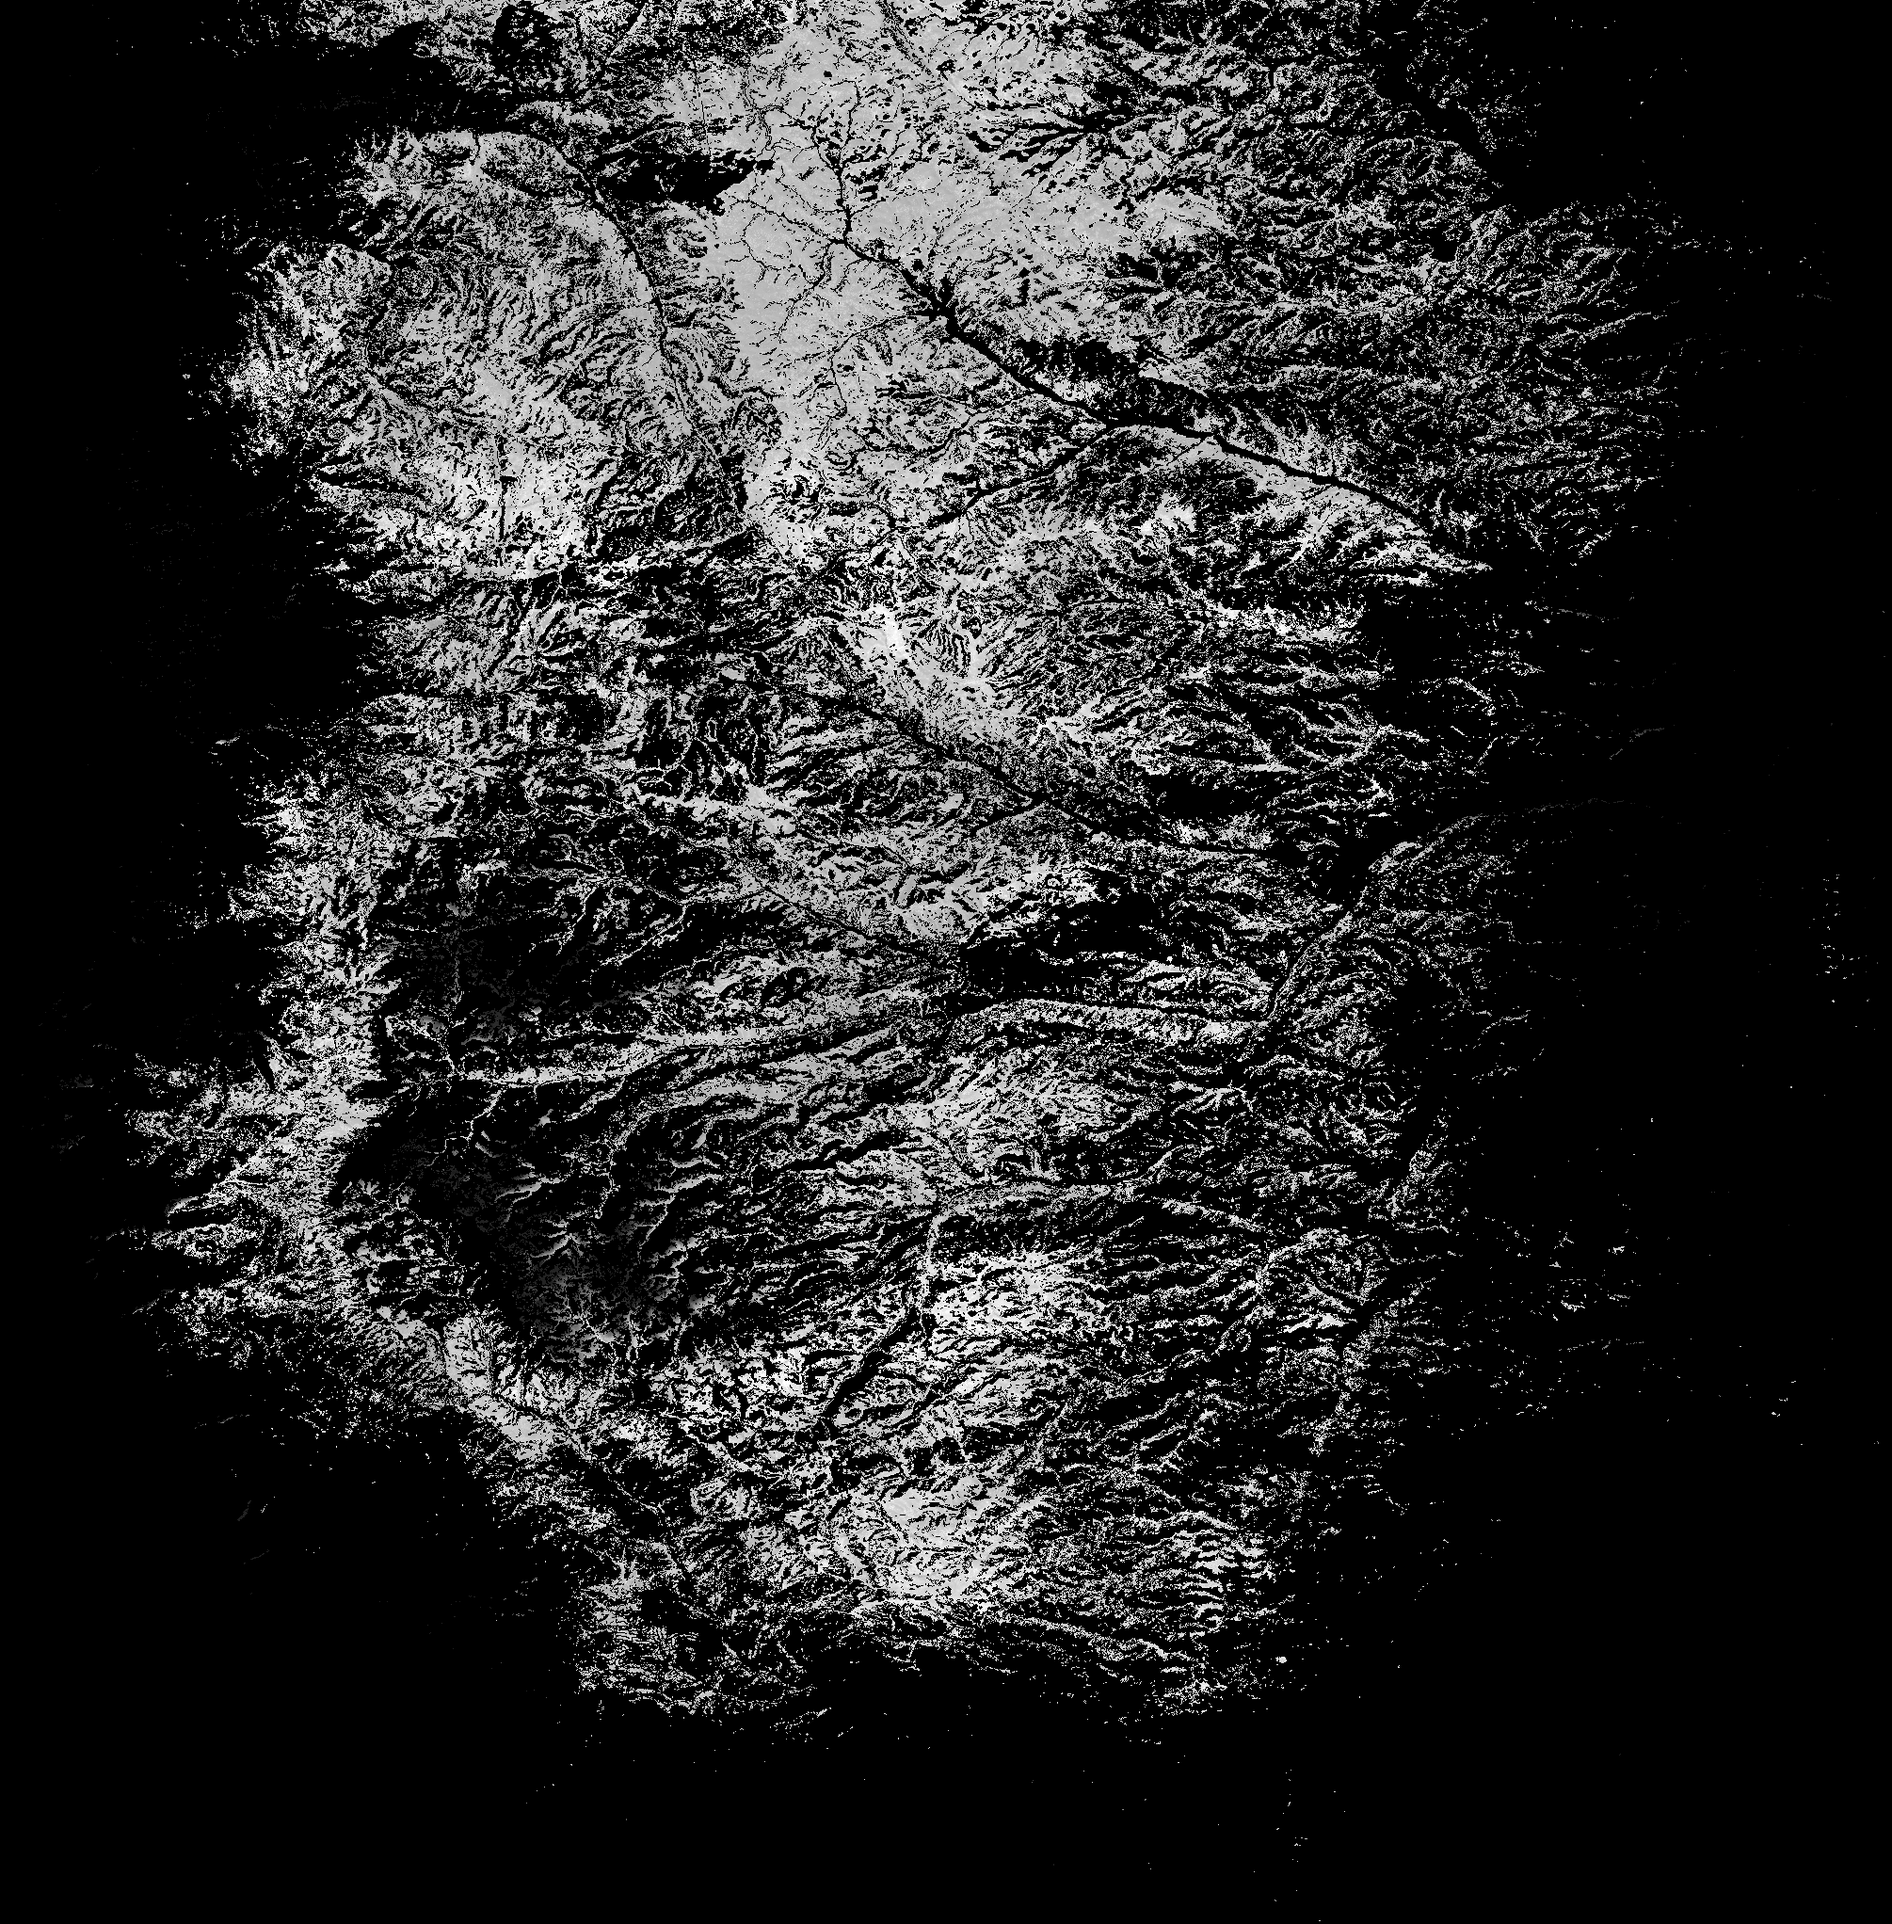
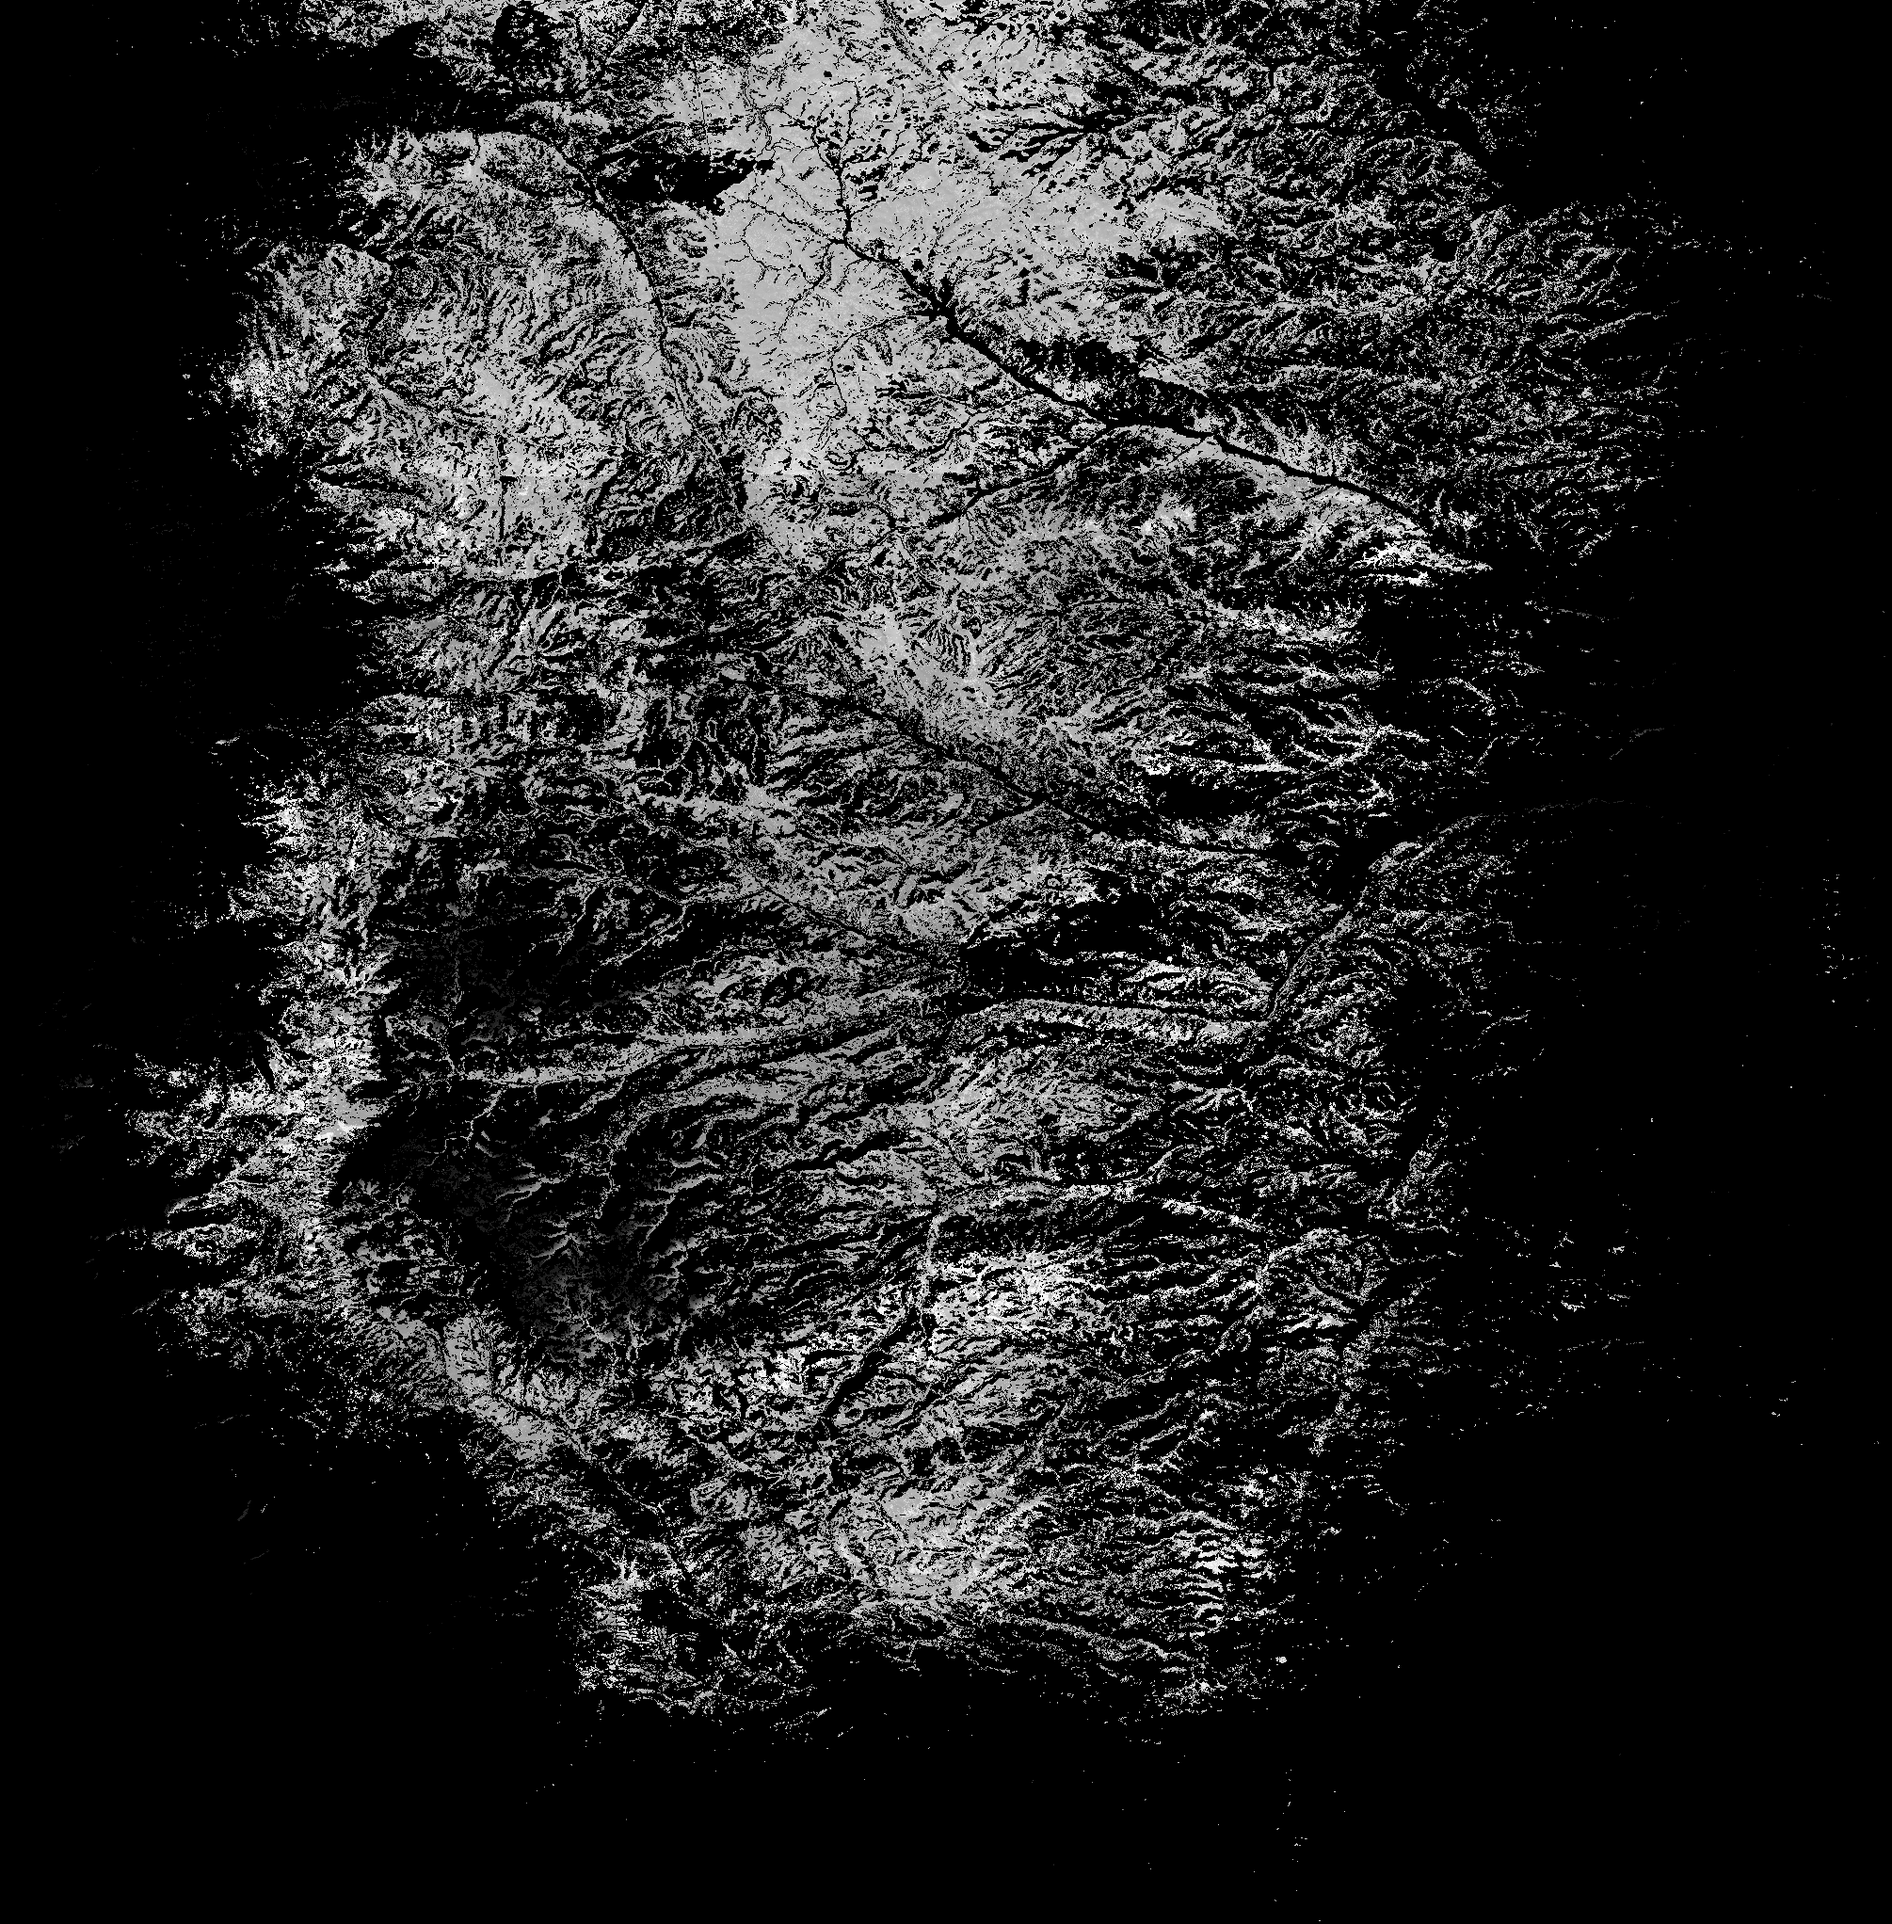
Full Sacramento RD lidar small-tree density (1063 3DEP tiles) in heat map, w=0.35; Meta only outside lidar; SW tf-v17

diff --git a/about.html b/about.html
@@ -22,4 +22,4 @@ Permit rules: Recreation.gov forest permit pages, fs.usda.gov forest pages, Vill
 <h3>Your field notes (local tuning)</h3><p>Waypoints marked “Trees found: Yes/Some/No” adjust the heat map <b>only on your phone</b>, within 350 m of each mark, fading with distance: up to ×1.25 for Yes, ×1.10 for Some and ×0.65 for No. This is shown as gold (found) or gray dashed (not found) circles and affects “Best nearby” ranking. It is labelled “local tuning” and does not change the source data.</p><h3>Base maps &amp; their terms</h3><ul>
 <li><b>USGS The National Map</b> (Topo, Imagery+Topo): public domain – “Map services and data downloaded from The National Map are free and in the public domain.” (<a href="https://www.usgs.gov/faqs/what-are-terms-uselicensing-map-services-and-data-national-map">USGS FAQ</a>). “Save area” offline downloads use these tiles only.</li>
 <li><b>OpenStreetMap</b> standard tiles: used for normal viewing only, with attribution and a normal browser Referer, per the <a href="https://operations.osmfoundation.org/policies/tiles/">OSM Tile Usage Policy</a>, which forbids “Save area for later” / prefetch features. OSM tiles are never bulk-downloaded or stored offline by this app. © OpenStreetMap contributors (ODbL).</li>
-<li><b>Esri World Street Map</b> was removed: Esri requires an access token / ArcGIS account for basemap use, and that legacy service is retiring.</li></ul><h3>Lidar small-tree density (Sacramento RD test)</h3><p>In a 5×5 km test box around Cloudcroft, a 1 m canopy height model was built from USGS 3DEP lidar (project NM_SouthEast_2018_D19, QL2, flown Nov 2018–May 2019, about 5 points/m² here). Small tree tops (local maxima 0.9–2.7 m tall in 2019) were counted, weighted toward open gaps, and assuming 0.5–1 ft/yr growth over 8 seasons (about +4 to +8 ft), so they are roughly Christmas size (5–13 ft) today. That density replaces most of the coarse LANDFIRE height factor (weight 0.35). West of about −105.47°, the Meta/WRI 1 m global canopy height map (2018 imagery) is used the same way at a lower weight (0.12), because it agreed poorly with lidar for small trees (r≈0.25 at 30 m). Both are ranked within their own source. <b>These are estimates</b>; small trees under tall canopy, and seedlings under ~3 ft in 2019, are missed.</p>
+<li><b>Esri World Street Map</b> was removed: Esri requires an access token / ArcGIS account for basemap use, and that legacy service is retiring.</li></ul><h3>Lidar small-tree density (Sacramento RD test)</h3><p>Across the whole Sacramento Ranger District (1063 lidar tiles), a 1 m canopy height model was built from USGS 3DEP lidar (project NM_SouthEast_2018_D19, QL2, flown Nov 2018–May 2019, about 5 points/m² here). Small tree tops (local maxima 0.9–2.7 m tall in 2019) were counted, weighted toward open gaps, and assuming 0.5–1 ft/yr growth over 8 seasons (about +4 to +8 ft), so they are roughly Christmas size (5–13 ft) today. That density replaces most of the coarse LANDFIRE height factor (weight 0.35). West of about −105.47°, the Meta/WRI 1 m global canopy height map (2018 imagery) is used the same way at a lower weight (0.12), because it agreed poorly with lidar for small trees (r≈0.25 at 30 m). Both are ranked within their own source. <b>These are estimates</b>; small trees under tall canopy, and seedlings under ~3 ft in 2019, are missed.</p>

diff --git a/sw.js b/sw.js
@@ -1,4 +1,4 @@
-const V='tf-v16', SHELL=['./','index.html','style.css','app.js','forests.js','setbacks.js','about.html','manifest.webmanifest','icon-192-v2.png','icon-512-v2.png','icon-maskable-512-v2.png','apple-touch-icon-v2.png','favicon-32-v2.png','fonts/MountainsOfChristmas-Bold.woff2',
+const V='tf-v17', SHELL=['./','index.html','style.css','app.js','forests.js','setbacks.js','about.html','manifest.webmanifest','icon-192-v2.png','icon-512-v2.png','icon-maskable-512-v2.png','apple-touch-icon-v2.png','favicon-32-v2.png','fonts/MountainsOfChristmas-Bold.woff2',
 'vendor/leaflet.js','vendor/leaflet.css','vendor/images/marker-icon.png','vendor/images/marker-icon-2x.png','vendor/images/marker-shadow.png','vendor/images/layers.png',
 'data/heat/index.json','data/forests.geojson','data/wilderness.geojson','data/districts.geojson','data/mvum_sacramento.geojson',
 ...['meta.json','land.png','vec.json',...['fir','ponderosa','pinyon','spruce'].flatMap(s=>[`s_${s}.png`,`g_score_${s}.png`,`g_hab_${s}.png`]),

diff --git a/pipeline/lidar/tile_worker.py b/pipeline/lidar/tile_worker.py
@@ -1,0 +1,52 @@
+"""Whole-district lidar: per LAZ tile download -> 1 m CHM -> small-tree tops -> trees/<key>.npy, then delete the LAZ.
+Resumable: tiles with trees/<key>.npy are skipped. Same method as the Cloudcroft test box (pipeline/lidar/trees.py)."""
+import json, os, sys, time, subprocess, numpy as np, laspy, pyproj, traceback
+from scipy import ndimage as ndi
+from concurrent.futures import ProcessPoolExecutor
+TT=pyproj.Transformer.from_crs(26913,4326,always_xy=True)
+def chm_tile(path):
+    with laspy.open(path) as r:
+        h=r.header;x0,y0=np.floor(h.mins[0]),np.floor(h.mins[1]);x1,y1=np.ceil(h.maxs[0]),np.ceil(h.maxs[1]);W,H=int(x1-x0),int(y1-y0)
+        dtm=np.full(H*W,np.inf,np.float32);dsm=np.full(H*W,-np.inf,np.float32);n=0
+        for ch in r.chunk_iterator(4_000_000):
+            c=np.asarray(ch.classification);ok=(c!=7)&(c!=18)&(c!=6)&~np.asarray(ch.withheld,bool)
+            x=np.asarray(ch.x)[ok];y=np.asarray(ch.y)[ok];z=np.asarray(ch.z,np.float32)[ok];c=c[ok];n+=len(x)
+            col=np.minimum(((x-x0)).astype(np.int32),W-1);row=np.minimum(((y1-y)).astype(np.int32),H-1);idx=row*W+col
+            np.maximum.at(dsm,idx,z);g=c==2;np.minimum.at(dtm,idx[g],z[g])
+    dtm=dtm.reshape(H,W);dsm=dsm.reshape(H,W)
+    if np.isinf(dtm).all():return None
+    m=np.isinf(dtm);dtm=dtm[tuple(ndi.distance_transform_edt(m,return_distances=False,return_indices=True))];dtm=ndi.gaussian_filter(dtm,1)
+    e=np.isinf(dsm);dsm=np.where(e,dsm[tuple(ndi.distance_transform_edt(e,return_distances=False,return_indices=True))],dsm)
+    chm=ndi.median_filter(np.clip(dsm-dtm,0,60).astype(np.float32),3);return chm,x0,y1,n/(W*H),e.mean()
+def trees(chm,x0,y1):
+    s=ndi.gaussian_filter(chm,0.7);peak=(s==ndi.maximum_filter(s,size=3))&(s>=0.9)&(s<=6)
+    yy,xx=np.mgrid[-6:7,-6:7];k=((xx**2+yy**2)<=36).astype(np.float32);k/=k.sum();cov=ndi.convolve((chm>5).astype(np.float32),k,mode='nearest')
+    r,c=np.nonzero(peak);h=s[r,c];wt=np.where((h>=0.9)&(h<2.1),1.0,np.where((h>=2.1)&(h<=2.7),.5,0))*(1-cov[r,c]);sel=wt>0
+    lon,lat=TT.transform(x0+c[sel]+.5,y1-r[sel]-.5);return np.c_[lon,lat,h[sel],wt[sel]].astype(np.float32)
+def job(t):
+    out=f"trees/{t['key']}.npy"
+    if os.path.exists(out):return t['key'],'skip',0
+    tmp=f"tmp/{t['key']}.laz";t0=time.time()
+    try:
+        for a in range(4):
+            if subprocess.run(['curl','-sfL','--retry','3','-o',tmp,t['url']]).returncode==0 and os.path.getsize(tmp)>1000:break
+            time.sleep(10*(a+1))
+        else:raise RuntimeError('download failed')
+        td=time.time()-t0;res=chm_tile(tmp)
+        tr=np.zeros((0,4),np.float32) if res is None else trees(res[0],res[1],res[2])
+        stats=dict(key=t['key'],n=len(tr),dens=None if res is None else round(float(res[3]),2),empty=None if res is None else round(float(res[4]),3),t_dl=round(td,1),t_all=round(time.time()-t0,1),mb=round(os.path.getsize(tmp)/1e6,1))
+        np.save(out+'.tmp.npy',tr);os.replace(out+'.tmp.npy',out)
+        with open('done.jsonl','a') as f:f.write(json.dumps(stats)+'\n')
+        return t['key'],'ok',stats['t_all']
+    except Exception as e:
+        with open('failed.jsonl','a') as f:f.write(json.dumps(dict(key=t['key'],err=repr(e)))+'\n')
+        return t['key'],'fail',0
+    finally:
+        if os.path.exists(tmp):os.remove(tmp)
+if __name__=='__main__':
+    T=json.load(open('../district_tiles.json'));N=int(sys.argv[1]) if len(sys.argv)>1 else 6;t0=time.time();k=0
+    with ProcessPoolExecutor(N) as ex:
+        for key,st,dt in ex.map(job,T):
+            k+=1
+            if k%10==0 or st=='fail':print(time.strftime('%H:%M:%S'),k,len(T),key,st,dt,'elapsed %.0fs'%(time.time()-t0),'free GB %.0f'%(os.statvfs('.').f_bavail*os.statvfs('.').f_frsize/1e9),flush=True)
+    print('ALL DONE',time.time()-t0)

diff --git a/pipeline/lidar/aggregate.py b/pipeline/lidar/aggregate.py
@@ -1,0 +1,14 @@
+"""Bin all tile tree tops into the Sacramento 30 m heat grid -> ../lidar_density_ha.npy + ../lidar_cover.npy (cover = cell centre inside a processed tile)."""
+import json, glob, os, numpy as np, math
+T={t['key']:t for t in json.load(open('../district_tiles.json'))}
+hm=json.load(open('/workspace/christmas-tree-app/data/heat/sacramento/meta.json'));BW,BS,BE,BN=hm['bbox'];gw,gh=hm['w'],hm['h']
+dens=np.zeros((gh,gw),np.float64);cover=np.zeros((gh,gw),bool);n=0
+cx=BW+(np.arange(gw)+.5)/gw*(BE-BW);cy=BN-(np.arange(gh)+.5)/gh*(BN-BS)
+for f in glob.glob('trees/*.npy'):
+    k=os.path.basename(f)[:-4];a=np.load(f);n+=len(a)
+    if len(a):gx=((a[:,0]-BW)/(BE-BW)*gw).astype(int);gy=((BN-a[:,1])/(BN-BS)*gh).astype(int);ok=(gx>=0)&(gx<gw)&(gy>=0)&(gy<gh);np.add.at(dens,(gy[ok],gx[ok]),a[ok,3])
+    x0,y0,x1,y1=T[k]['bb'];ix=np.nonzero((cx>x0)&(cx<x1))[0];iy=np.nonzero((cy>y0)&(cy<y1))[0]
+    if len(ix) and len(iy):cover[iy[0]:iy[-1]+1,ix[0]:ix[-1]+1]=True
+cell=(BE-BW)/gw*111320*math.cos(math.radians((BS+BN)/2))*(BN-BS)/gh*110540
+np.save('../lidar_density_ha.npy',(dens/cell*1e4).astype(np.float32));np.save('../lidar_cover.npy',cover)
+print('tiles',len(glob.glob('trees/*.npy')),'trees',n,'cover cells',cover.sum())
